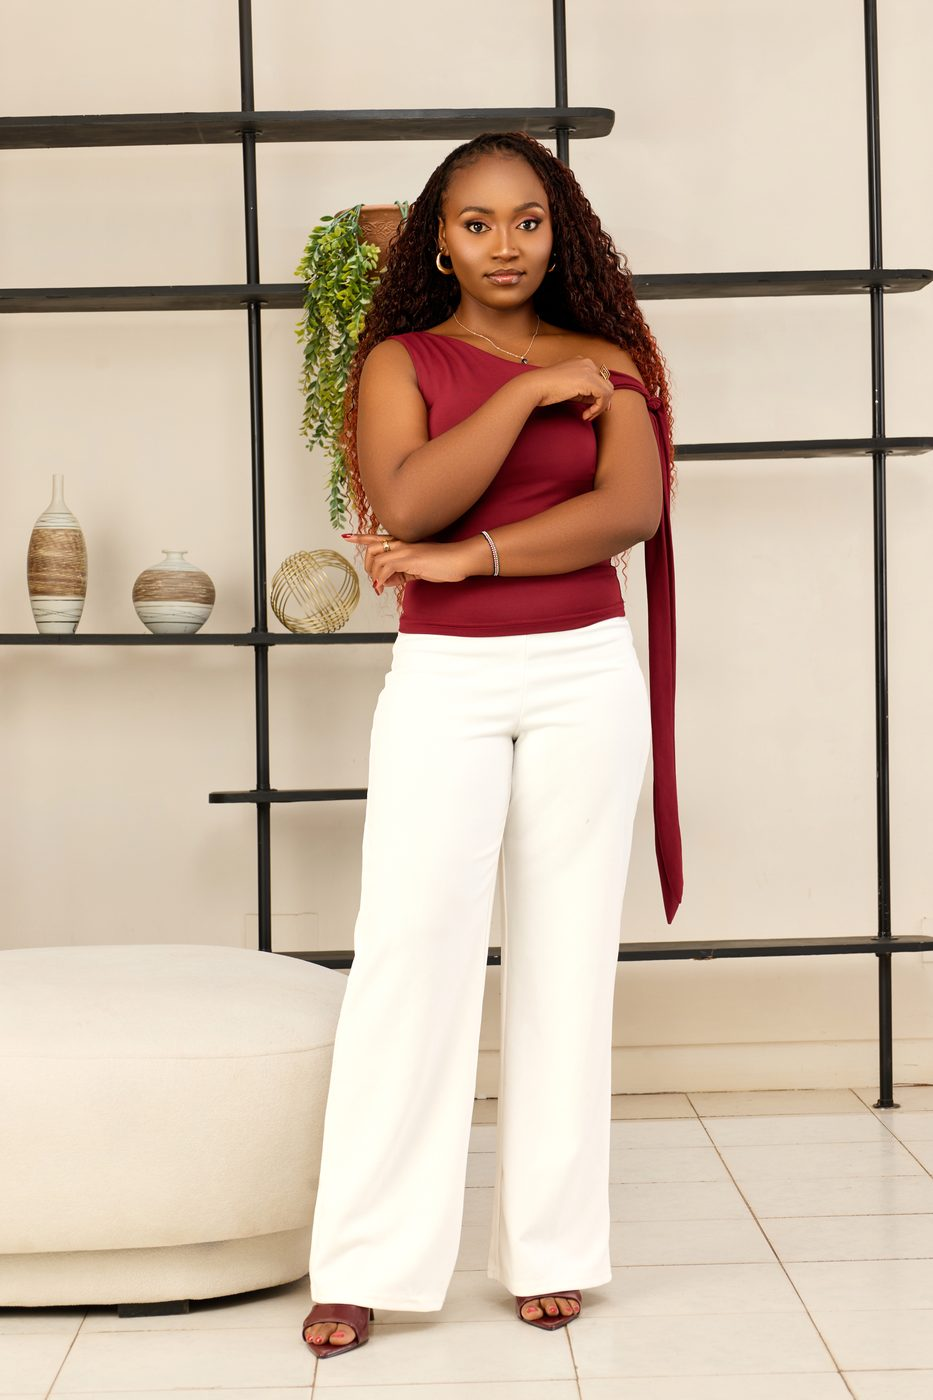
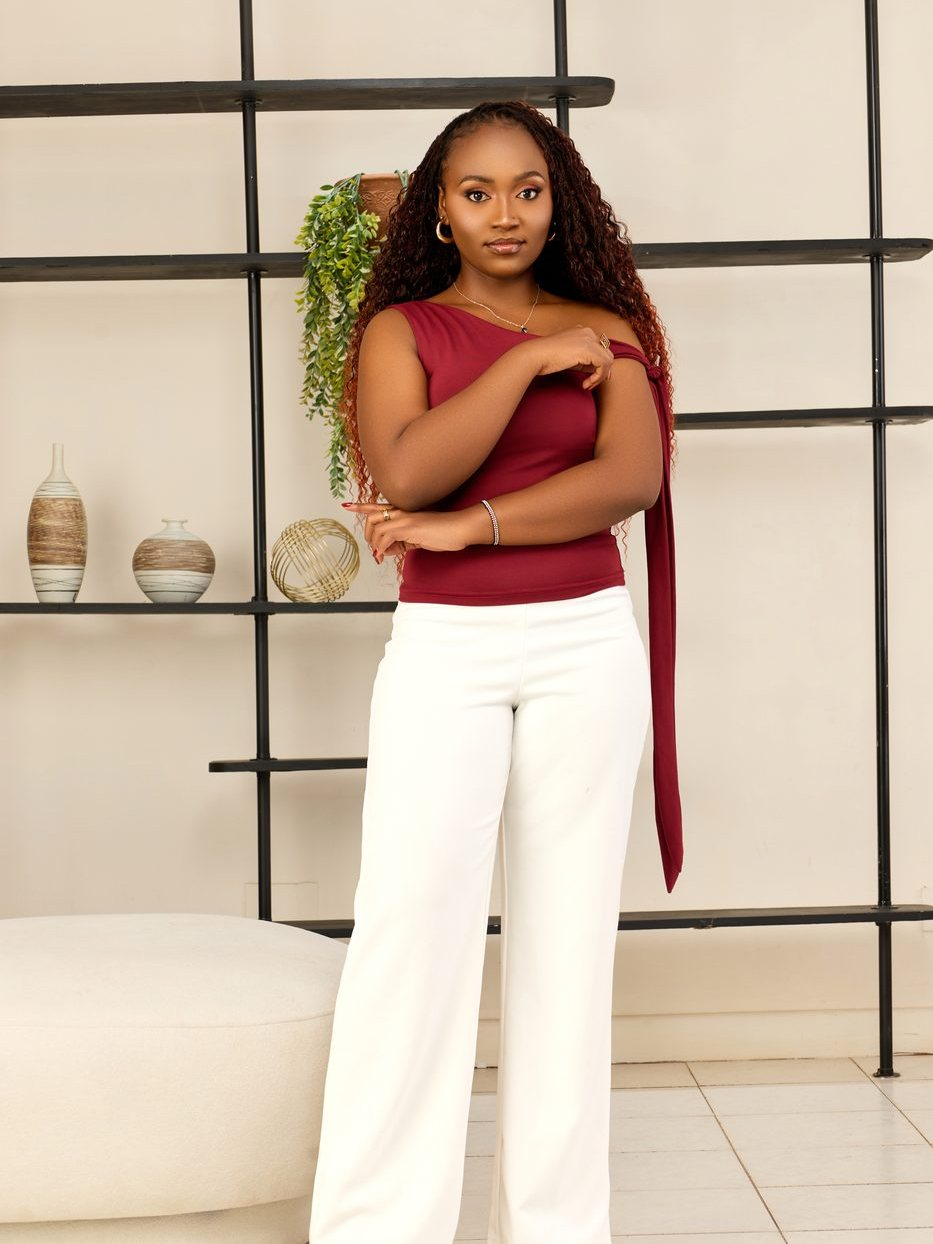
Fix image proportions

diff --git a/index.html b/index.html
@@ -88,7 +88,8 @@ header h1 em{
 .hero-grid{display:grid;grid-template-columns:1.15fr .85fr;gap:56px;align-items:center}
 .hero-photo{position:relative;justify-self:end}
 .hero-photo img{
-  width:100%;max-width:400px;display:block;border-radius:14px;
+  width:100%;max-width:380px;display:block;border-radius:14px;
+  aspect-ratio:3/4;object-fit:cover;object-position:50% 35%;
   border:1px solid rgba(217,179,106,.45);
   box-shadow:0 24px 60px rgba(0,0,0,.35);
 }
@@ -101,11 +102,11 @@ header h1 em{
   .hero-photo{justify-self:start}
 }
 .kit-grid{display:grid;grid-template-columns:300px 1fr;gap:40px;align-items:start;margin-top:44px}
-.kit-photo img{width:100%;display:block;border-radius:12px;border:3px solid var(--brass-soft)}
+.kit-photo img{width:100%;display:block;border-radius:12px;aspect-ratio:4/5;object-fit:cover;object-position:50% 30%;border:3px solid var(--brass-soft)}
 .kit-photo figcaption{font-size:.78rem;color:var(--ink-soft);margin-top:10px;letter-spacing:.04em}
 @media(max-width:760px){.kit-grid{grid-template-columns:1fr}}
 .values-grid{display:grid;grid-template-columns:1fr 320px;gap:52px;align-items:center}
-.values-photo img{width:100%;display:block;border-radius:14px;border:1px solid rgba(192,138,45,.4)}
+.values-photo img{width:100%;display:block;border-radius:14px;aspect-ratio:3/4;object-fit:cover;object-position:50% 20%;border:1px solid rgba(192,138,45,.4)}
 @media(max-width:860px){.values-grid{grid-template-columns:1fr}.values-photo{max-width:340px}}
 
 /* ---------- Section scaffolding ---------- */